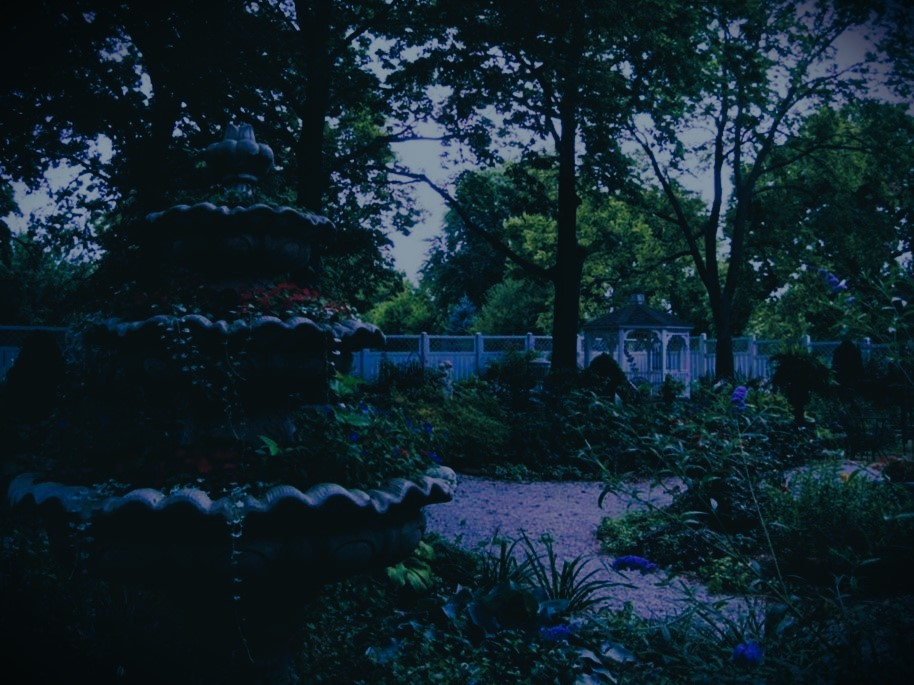
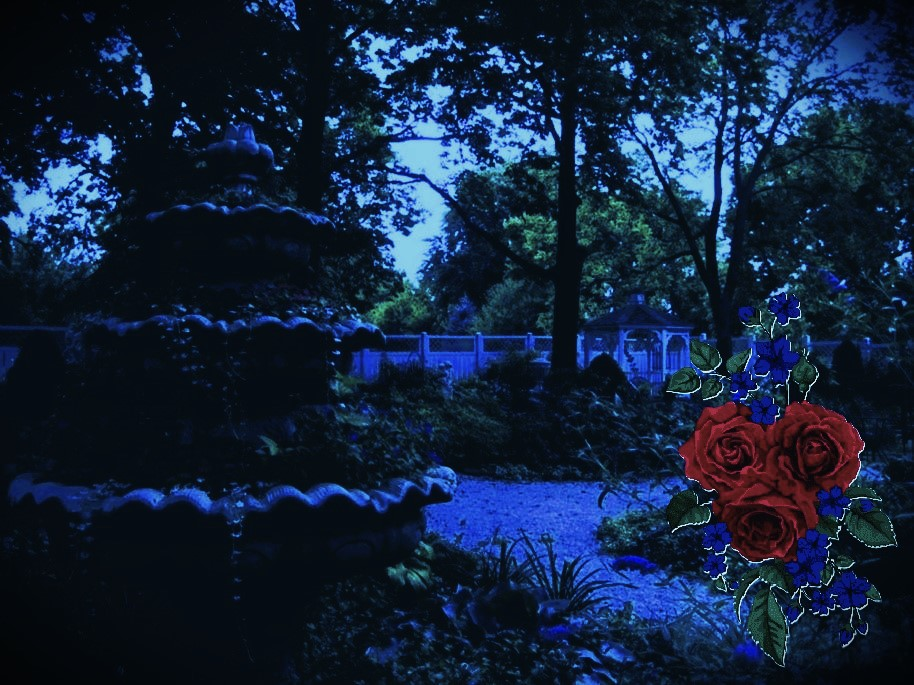
Minute CSS Changes

diff --git a/blogwebsite/src/index.css b/blogwebsite/src/index.css
@@ -19,10 +19,10 @@ body::before {
   left: 0;
   right: 0;
   bottom: 0;
-  background-image: url(../public/pictures/branchNature.jpg);
+  background-image: url(../public/pictures/Wildwood+Victorian+Garden.jpg);
   background-size: cover;
   background-position: center;
-  opacity: 0.34;
+  opacity: 0.70;
   z-index: -1; /* Ensure the background stays behind the content */
   pointer-events: none; /* Prevent background from interfering with clicks */
 }
@@ -45,7 +45,7 @@ code {
 :root {
   --color-bg: #5111f1a7;
   --color-bg-variant: #ec0c0c89;
-  --color-primary: #59060a55;
+  --color-primary: #a41118ce;
   --color-primary-var: rgba(238, 16, 16, 0.6);
   --color-white: #fff;
   --color-light: rgba(255,255,255,.6);

diff --git a/blogwebsite/src/home/header/header.css b/blogwebsite/src/home/header/header.css
@@ -1,6 +1,8 @@
 body{
-
-    color: rgb(43, 2, 146);
+    color: rgb(112, 14, 14);
+    background-color: blue;
+    border-radius: 5cm;
+    border-color: blue;
 }
 header{
     height: 100vh;
